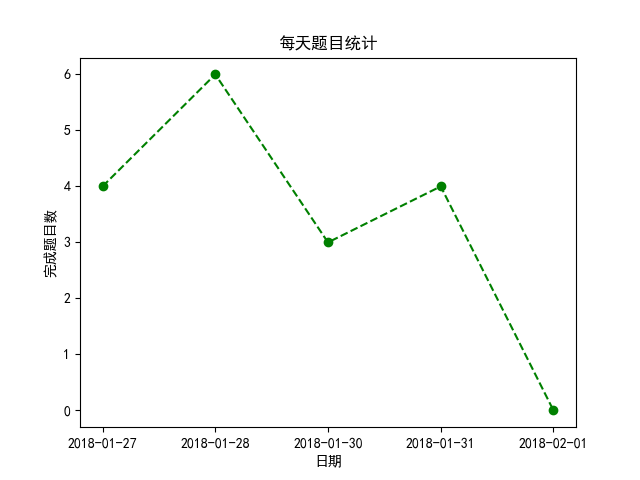
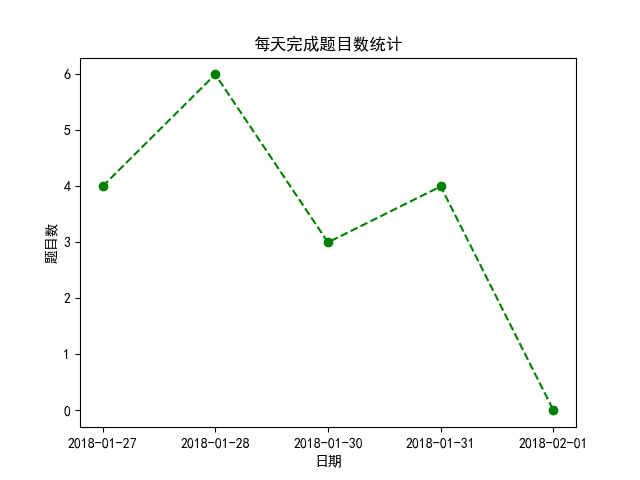
change picture link in readme

Changed region(s): [[0.4062, 0.0625, 0.625, 0.125], [0.0625, 0.4375, 0.0938, 0.5938]]

diff --git a/scripts/createReadme.py b/scripts/createReadme.py
@@ -139,7 +139,7 @@ def generate_readme():
      file_path = Config.local_path + '/README.md'
      with open(file_path, 'w') as f:
          f.write(" ## 总计：\n ")
-         f.write(" ![](../test.png) ")
+         f.write(" ![](https://raw.githubusercontent.com/anbo225/leetcode/master/test.png) ")
          f.write('\n----------------\n')
          for daily  in  session.query(Daily).order_by(Daily.date).all():
              if len(daily.questions) == 0:
@@ -176,8 +176,8 @@ def generate_pic():
     plt.plot(x,y,'go--')
     plt.rcParams['font.sans-serif'] = ['SimHei']
     plt.xlabel("日期")
-    plt.ylabel("完成题目数")
-    plt.title("每天题目统计")
+    plt.ylabel("题目数")
+    plt.title("每天完成题目数统计")
     plt.savefig("../test.png")
 
 

diff --git a/README.md b/README.md
@@ -1,4 +1,5 @@
- ![](../test.png) 
+ ## 总计：
+  ![](https://raw.githubusercontent.com/anbo225/leetcode/master/test.png) 
 ----------------
 ### 2018-01-27 完成了:
 
